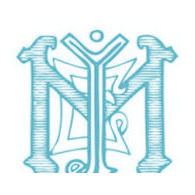
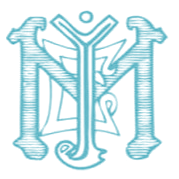
feat(web): the sign-in page pared back, the monogram whole, a backdrop behind the card
The monogram shipped with the code had been cut off at the school's
banner rule, losing the curl at its foot; it is rebuilt from the school's
own crop, whole, and is now the only mark on the page - the one over the
form is gone, as is the line of description under "Sign in". Behind the
card sits a backdrop made for the page: the crest's colours out of focus
with the monogram faint in them, veiled in dark mode so the card still
leads. Seventy-six kilobytes, no photograph of somewhere else.

diff --git a/apps/web/src/routes/LoginPage.tsx b/apps/web/src/routes/LoginPage.tsx
@@ -2,7 +2,6 @@ import { useMutation, useQueryClient } from "@tanstack/react-query";
 import { EyeIcon, EyeOffIcon } from "lucide-react";
 import { useId, useState } from "react";
 import { useLocation, useNavigate } from "react-router-dom";
-import { BrandMark } from "@/components/shell/BrandMark.js";
 import { Button } from "@/components/ui/button.js";
 import { Input } from "@/components/ui/input.js";
 import { api, ApiError, type CurrentUser } from "@/lib/api.js";
@@ -16,6 +15,8 @@ import { BRAND } from "@/lib/branding.js";
  * asks for exactly two things and nothing else. There is no sign-up and no
  * "continue with": accounts are made by the office, and the page says so
  * rather than leaving a visitor looking for a button that is not there.
+ * Behind the card, the crest's colours out of focus with the mark faint in
+ * them: a backdrop made for this page, not a photograph of somewhere else.
  *
  * On a phone the field becomes a band across the top, so the crest is
  * still the first thing seen and the form is still reachable without
@@ -57,15 +58,26 @@ export function LoginPage() {
 
   return (
     <div className="relative flex h-full items-center justify-center overflow-y-auto bg-[color-mix(in_oklch,var(--crest-mist)_45%,var(--background))] p-3 sm:p-6 dark:bg-background">
-      <div className="grid w-full max-w-[64rem] overflow-hidden rounded-[1.75rem] border bg-card shadow-2xl shadow-[color-mix(in_oklch,var(--crest-deep)_18%,transparent)] animate-in fade-in-0 slide-in-from-bottom-2 duration-300 md:min-h-[36rem] md:grid-cols-[1.08fr_1fr] md:p-4">
+      {/* The backdrop, and in the dark a veil over it so the card still
+          leads. Both fixed to the frame, not the scrolling content. */}
+      <div
+        aria-hidden
+        className="pointer-events-none absolute inset-0 bg-cover bg-center"
+        style={{ backgroundImage: `url(${BRAND.signInBackdrop})` }}
+      />
+      <div
+        aria-hidden
+        className="pointer-events-none absolute inset-0 dark:bg-background/80"
+      />
+      <div className="relative grid w-full max-w-[64rem] overflow-hidden rounded-[1.75rem] border border-white/60 bg-card shadow-2xl shadow-[color-mix(in_oklch,var(--crest-deep)_22%,transparent)] animate-in fade-in-0 slide-in-from-bottom-2 duration-300 md:min-h-[36rem] md:grid-cols-[1.08fr_1fr] md:p-4 dark:border-border">
         {/* The field */}
         <aside className="crest-field relative flex flex-col justify-between overflow-hidden p-6 text-white md:rounded-[1.25rem] md:p-9">
           <img
             src={BRAND.monogramOnDark}
             alt=""
-            width={195}
-            height={195}
-            className="relative size-14 md:size-[4.5rem]"
+            width={179}
+            height={179}
+            className="relative size-16 md:size-24"
             draggable={false}
           />
           <div className="relative mt-10 max-w-sm md:mt-0">
@@ -84,14 +96,9 @@ export function LoginPage() {
             mutation.mutate();
           }}
         >
-          <BrandMark size="lg" className="hidden size-12 rounded-none md:flex" />
-          <h1 className="text-[1.75rem]/[1.15] font-semibold tracking-tight md:mt-5">
+          <h1 className="text-[1.75rem]/[1.15] font-semibold tracking-tight">
             Sign in
           </h1>
-          <p className="mt-2 text-sm text-muted-foreground text-pretty">
-            The live register, reports and administration for the school — in
-            one place, from anywhere.
-          </p>
 
           <div className="mt-8 space-y-5">
             <div className="flex flex-col gap-2">

diff --git a/apps/web/e2e/school-mark.spec.ts b/apps/web/e2e/school-mark.spec.ts
@@ -2,9 +2,8 @@ import { expect, test } from "@playwright/test";
 import { signIn } from "./helpers.js";
 
 /**
- * The school's crest: uploaded once under Rules, shown in the sidebar at
- * once, and on the sign-in page before there is any session. Removed, the
- * initials tile stands in again.
+ * The school's crest: uploaded once under Rules and shown in the sidebar at
+ * once. Removed, the shipped logo stands in again.
  */
 
 const CREST = Buffer.from(
@@ -32,14 +31,7 @@ test("the crest is uploaded under Rules and appears in the shell and at sign-in"
   expect(served.status()).toBe(200);
   expect(served.headers()["content-type"]).toContain("image/svg+xml");
 
-  // Before a session exists, the sign-in page shows it too.
-  await page.getByRole("button", { name: "Account menu" }).click();
-  await page.getByRole("menuitem", { name: "Sign out" }).click();
-  await expect(page).toHaveURL(/\/login/);
-  await expect(page.locator("form img[src^='/api/school/logo']")).toBeVisible();
-
-  // Removed: the tile is back, and the API says there is none.
-  await signIn(page, "full");
+  // Removed: the shipped logo is back, and the API says there is none.
   await page.goto("/admin/rules");
   await page.getByRole("button", { name: "Remove" }).click();
   await expect(page.getByText("Mark removed")).toBeVisible();

diff --git a/apps/web/src/lib/branding.ts b/apps/web/src/lib/branding.ts
@@ -18,4 +18,6 @@ export const BRAND = {
   monogram: "/branding/monogram.png",
   /** The monogram in white, for the sign-in field. */
   monogramOnDark: "/branding/monogram-white.png",
+  /** Behind the sign-in card: the crest's colours out of focus, the mark faint. */
+  signInBackdrop: "/branding/sign-in.jpg",
 } as const;

diff --git a/docs/DESIGN.md b/docs/DESIGN.md
@@ -86,12 +86,15 @@ The one page seen before there is a session, and the one place the brand
 is allowed to be loud. One card, two panels: on the left the *field* —
 `.crest-field`, the crest's colours as layered radial gradients (the deep
 blue under the white monogram, the cyan brightening into a mist, the
-banner's red as a single glow), with the school's name and one line about
-what this is; on the right the form, which asks for an email and a
-password and says plainly that accounts come from the office. On a phone
-the field is a band across the top. The field's slow drift is the only
+banner's red as a single glow), with the white monogram — the only mark on
+the page — the school's name and one line about what this is; on the right
+the form, which asks for an email and a password and says plainly that
+accounts come from the office. On a phone the field is a band across the
+top. Behind the card is `branding/sign-in.jpg`, made for this page: the
+crest's colours out of focus and the monogram faint in them, veiled in
+dark mode so the card still leads. The field's slow drift is the only
 motion, and `prefers-reduced-motion` stops it. No sign-up, no "continue
-with", no photograph.
+with", no photograph of somewhere else.
 
 ## Type
 
